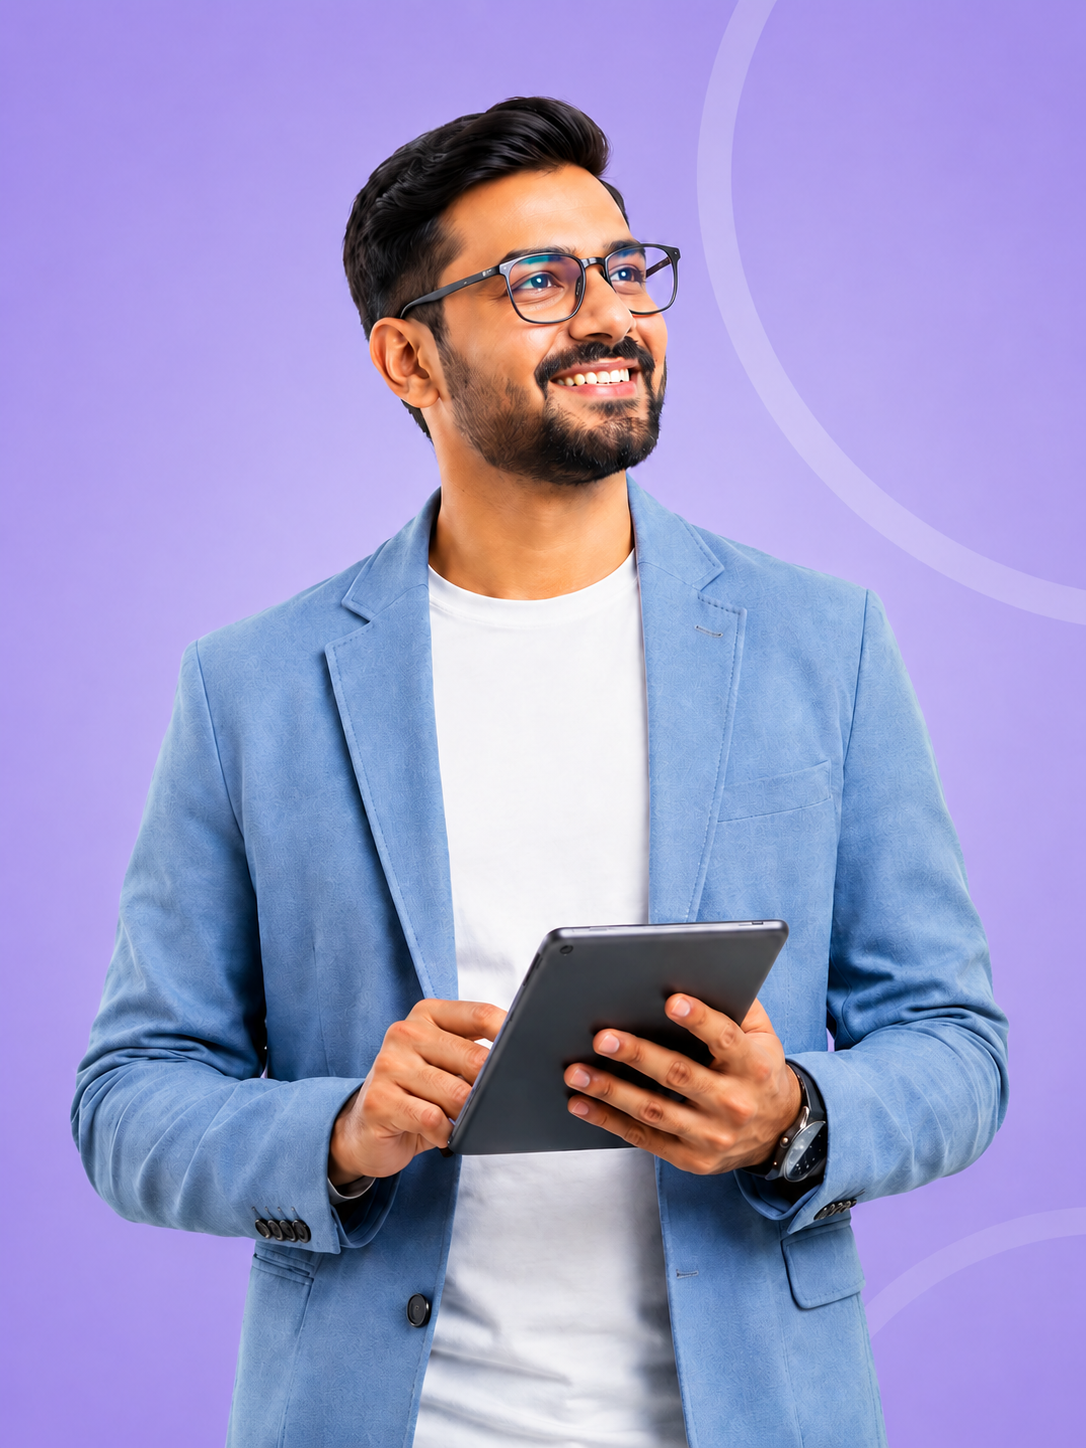
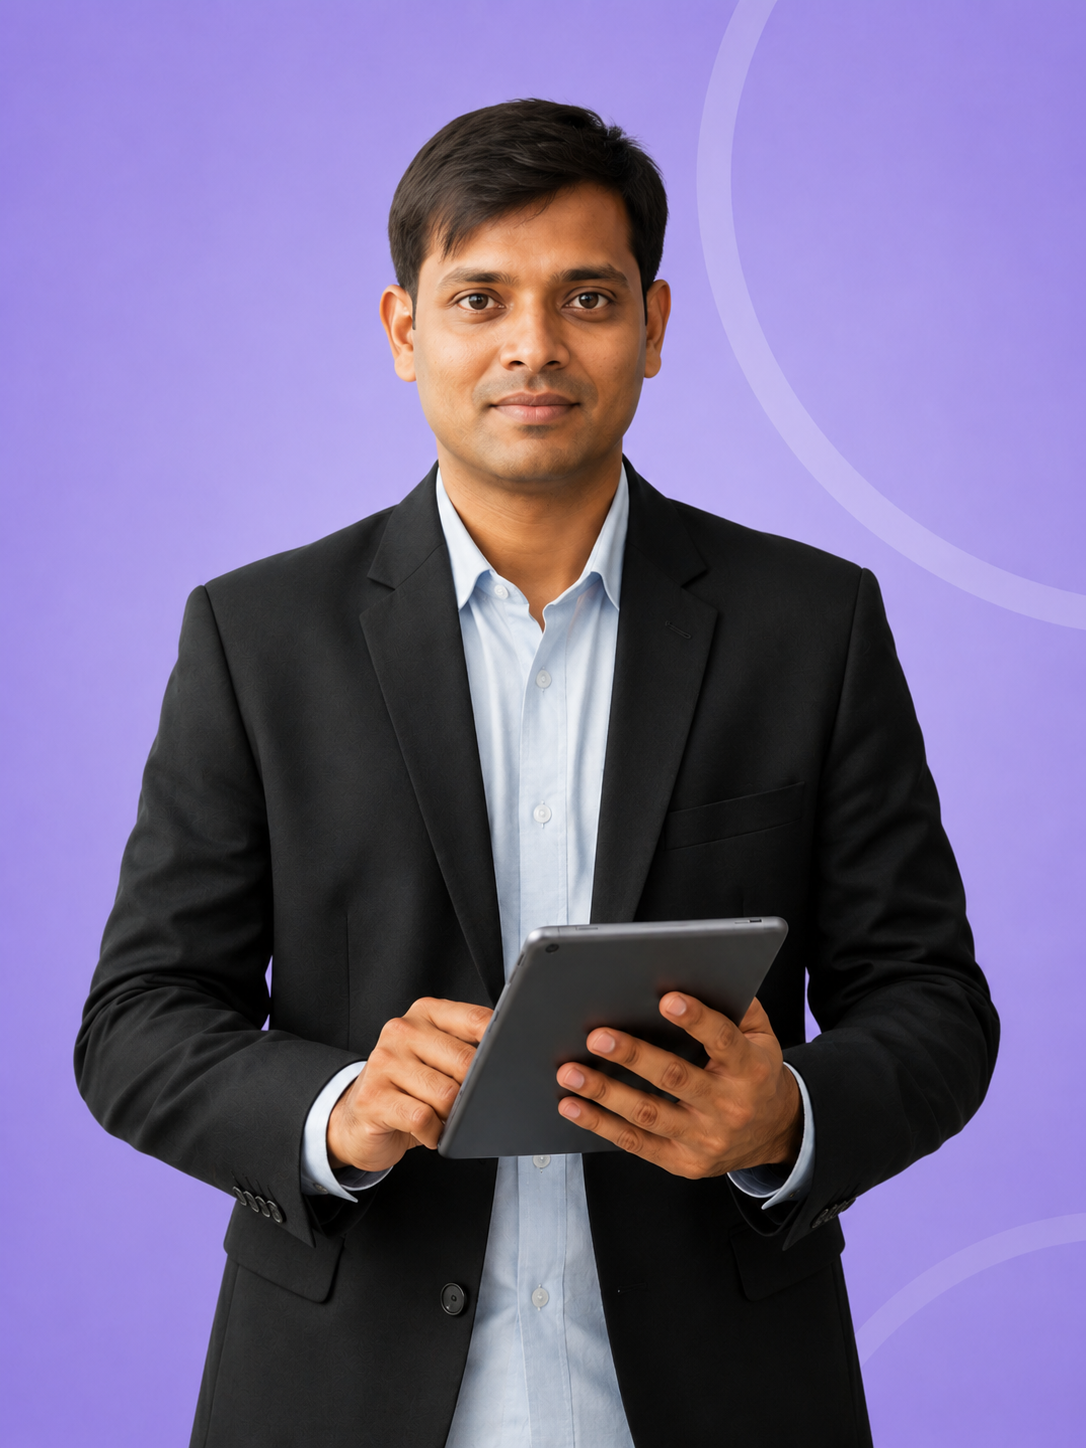
seo and ppc page done

diff --git a/ppc.php b/ppc.php
@@ -1728,12 +1728,12 @@ include __DIR__ . '/header.php';
                 </p>
 
                 <div class="hero-cta-row">
-                    <a href="#" class="hero-btn hero-btn-primary">
-                        Get Free PPC Audit
+                    <a href="enquirynow.php" class="hero-btn hero-btn-primary">
+                        Enquiry Now
                         <i class="fa-solid fa-arrow-right"></i>
                     </a>
-                    <a href="#" class="hero-btn hero-btn-secondary">
-                        Our PPC Services
+                    <a href="contact.php" class="hero-btn hero-btn-secondary">
+                        Contact Us
                         <i class="fa-solid fa-arrow-right"></i>
                     </a>
                 </div>
@@ -1776,8 +1776,8 @@ include __DIR__ . '/header.php';
                     businesses enter competitive markets faster, test offers quickly, and scale the channels that
                     produce stronger returns.
                 </p>
-                <a href="#" class="ppc-btn">
-                    Explore PPC Services
+                <a href="enquirynow.php" class="ppc-btn">
+                    Enquire Now
                     <i class="fa-solid fa-arrow-right"></i>
                 </a>
 
@@ -1933,8 +1933,8 @@ include __DIR__ . '/header.php';
                         </div>
                     </div>
 
-                    <a href="#" class="overview-btn">
-                        Explore PPC Services
+                    <a href="contact.php" class="overview-btn">
+                        Contact Us
                         <i class="fa-solid fa-arrow-right"></i>
                     </a>
                 </div>
@@ -1997,10 +1997,10 @@ include __DIR__ . '/header.php';
             <div class="col-12 col-md-6 col-lg-4">
                 <div class="service-card">
                     <div class="service-icon-circle meta-icons">
-                        <i class="fa-solid fa-infinity meta-infinity"></i>
+                        <!-- <i class="fa-solid fa-infinity meta-infinity"></i> -->
                         <span class="meta-brand-row">
-                            <i class="fa-brands fa-facebook"></i>
-                            <i class="fa-brands fa-instagram"></i>
+                            <!-- <i class="fa-brands fa-facebook"></i> -->
+                            <i class="fa-brands fa-meta"></i>
                         </span>
                     </div>
                     <h3 class="service-title">Meta Ads Management</h3>

diff --git a/seo.php b/seo.php
@@ -2372,9 +2372,9 @@ include __DIR__ . '/header.php';
             <div class="col-12 col-md-6 col-lg-4">
                 <div class="service-card">
                     <div class="service-icon-circle meta-icons">
-                        <i class="fa-solid fa-gears meta-infinity"></i>
+                        <!-- <i class="fa-solid fa-gears meta-infinity"></i> -->
                         <span class="meta-brand-row">
-                            <i class="fa-solid fa-code"></i>
+                            <!-- <i class="fa-solid fa-code"></i> -->
                             <i class="fa-solid fa-screwdriver-wrench"></i>
                         </span>
                     </div>